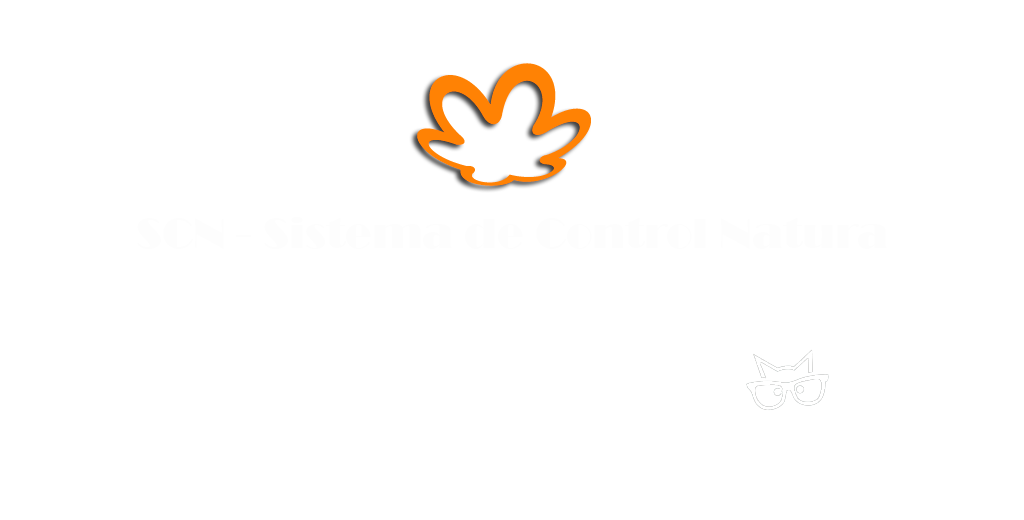
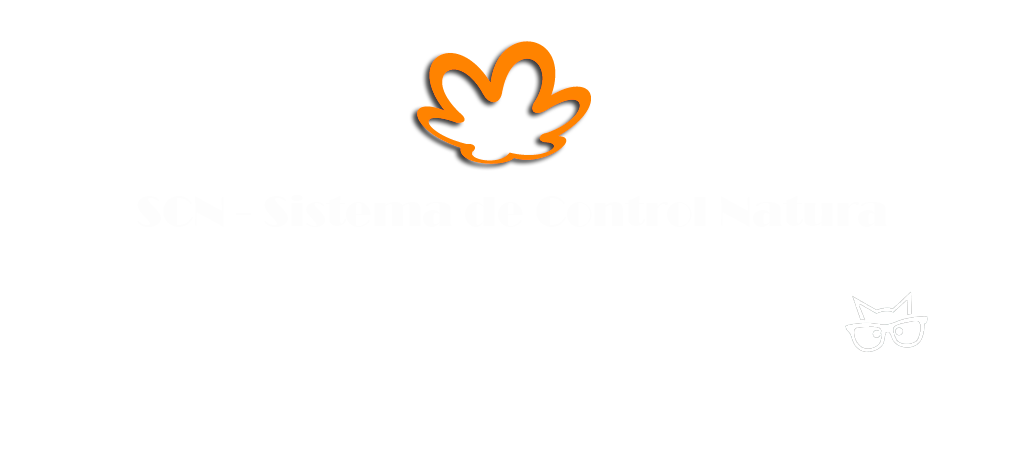
solucionado problema con la barra de menu

Changed region(s): [[0.375, 0.0884, 0.5938, 0.3832], [0.8438, 0.6484, 0.9062, 0.7368]]

diff --git a/js/funciones.js b/js/funciones.js
@@ -8,6 +8,7 @@ $(document).ready(function () {
     });
 
 //**********MENU**********
+    $("#menu").tabs();
     $("#menuinicio").button().click(function () {
         inicio();
     });

diff --git a/css/estilo.css b/css/estilo.css
@@ -28,7 +28,7 @@
 
 .inicio{
     width: 1024px;
-    height: 520px;
+    height: 475px;
     background:url("images/SCC520-png-blanco.png");
 }
 

diff --git a/application/views/header.php b/application/views/header.php
@@ -18,7 +18,7 @@
 
     </head>
     <header>
-        <div id="menu" class="ui-widget-header ui-corner-all centrar" hidden>
+        <div id="menu" class="ui-widget-header ui-corner-all centrar" hidden style="text-align: left; margin-bottom: 10px; ">
             <button id="menuinicio">Inicio</button>
             <button onclick="foco()" id="menucompras">Compras</button>
             <button onclick="foco()" id="menuventas">Ventas</button>
